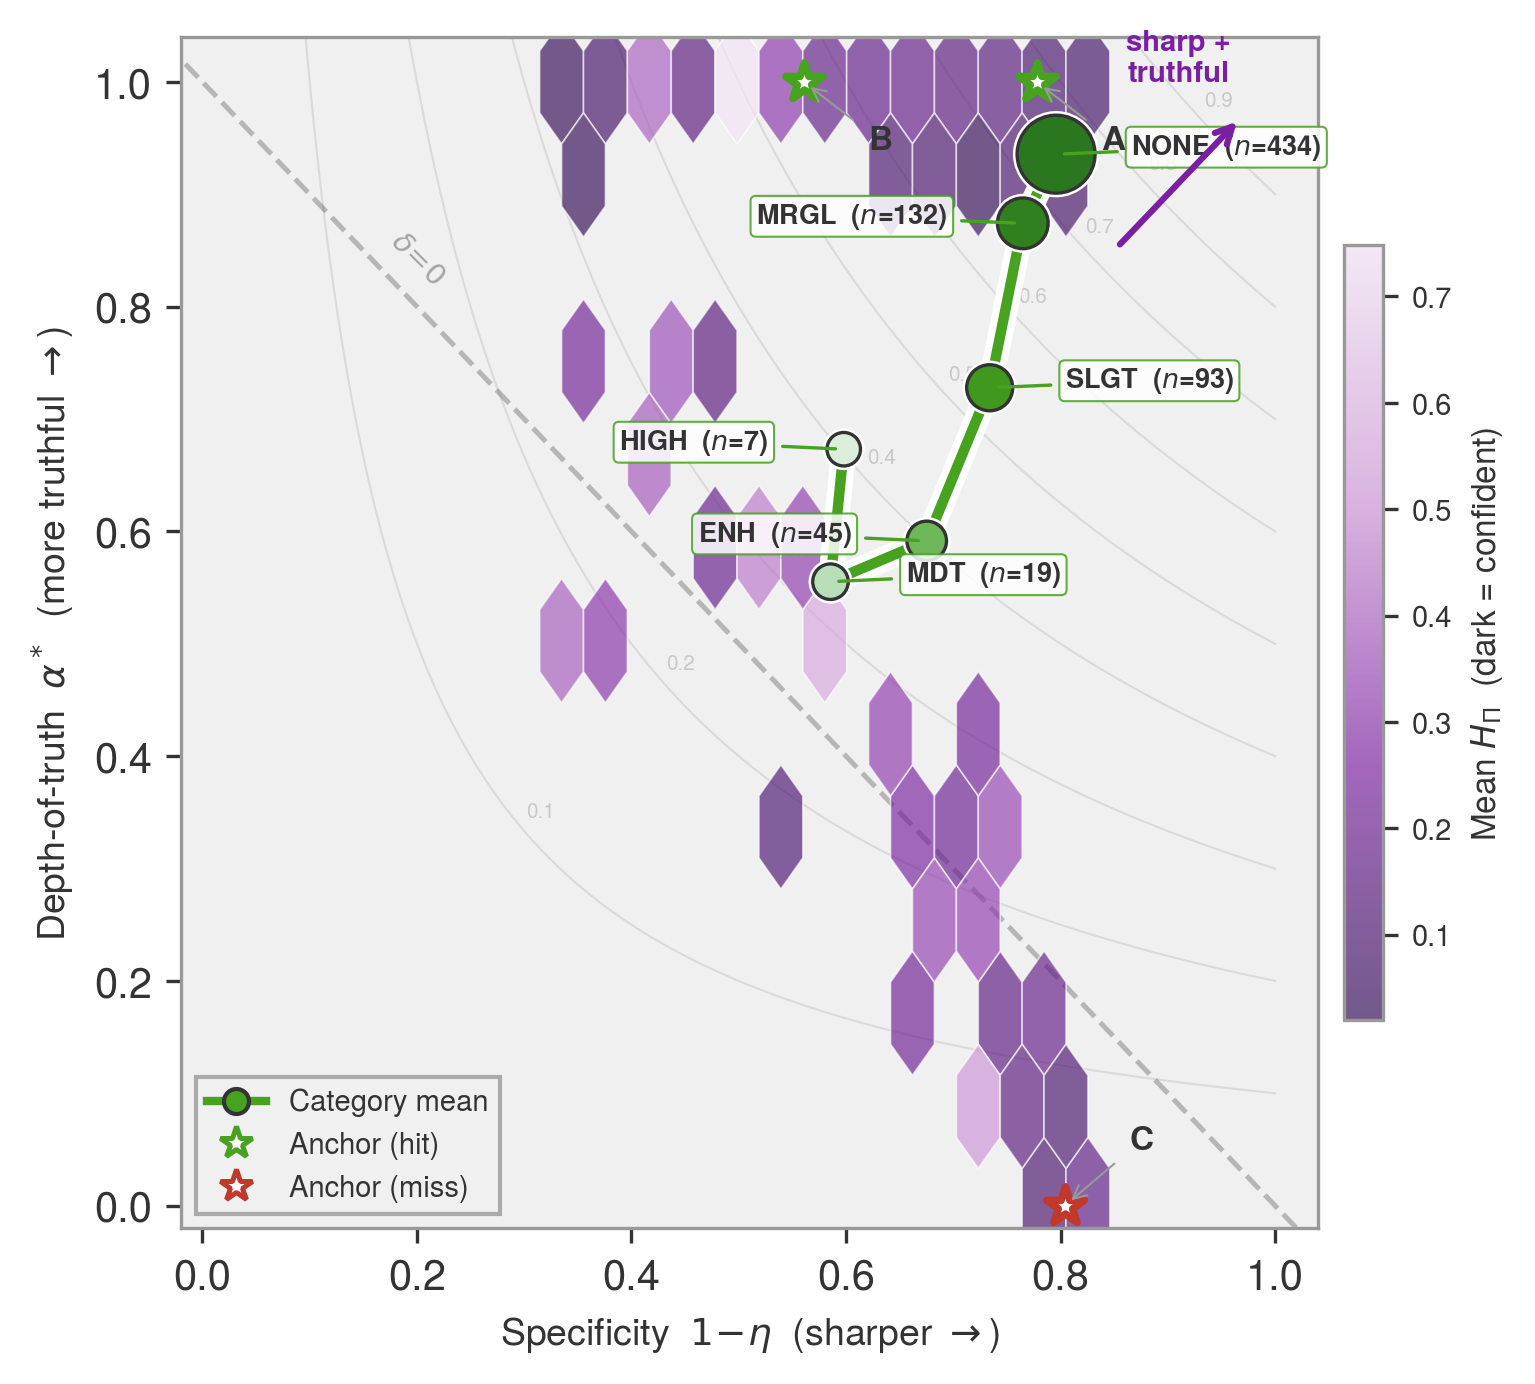
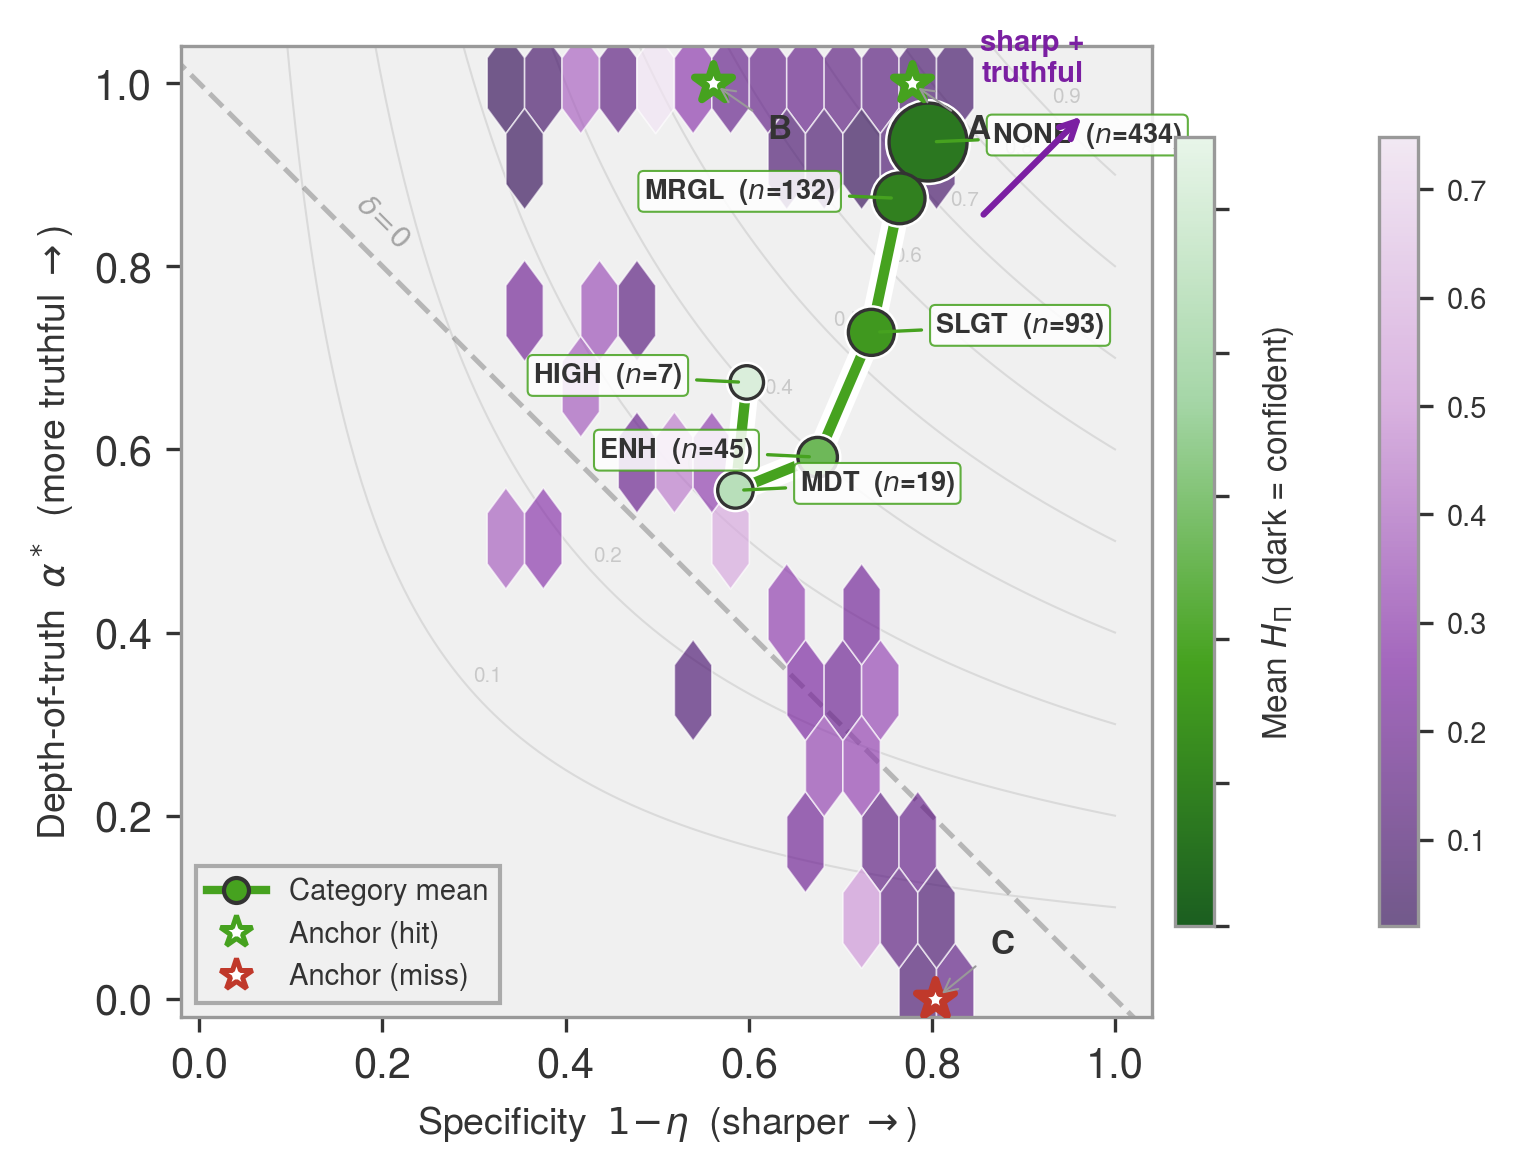
Regular hexagons, dual colorbar, move figure earlier
Match V4b layout pattern (set_aspect + tight_layout) for truly
regular hexagons. Add parallel green colorbar strip alongside
purple to show both H_Pi encodings on same scale. Move figure
environment earlier in source so LaTeX separates figs 4 and 5.

diff --git a/sections/05-native-verification.tex b/sections/05-native-verification.tex
@@ -175,6 +175,24 @@ Aggregates $\overline{\alpha^*}$, $\overline{\eta}$,
 $\overline{\delta}$, $\overline{\ign}$, $\overline{\Nc^*}$ are reported
 with bootstrap confidence intervals.
 
+\begin{figure}[t]
+\centering
+\includegraphics[width=\columnwidth]{perf_hexbin_trajectory.png}
+\caption{Possibilistic performance diagram for a two-year synthetic
+    reforecast.
+    \textbf{Hex bins:} colour is mean $\ign$ (dark purple = confident).
+    \textbf{Contours:} joint skill $S = \alpha^* \times (1 - \eta)$.
+    \textbf{Dashed diagonal:} $\delta = 0$ break-even.
+    \textbf{Green line:} category-conditional means from \spc{NONE}
+    (easy, upper right) to \spc{HIGH} (rare, lower left); dot
+    size $\propto$ sample count; shade encodes $\ign$ (dark green
+    = confident), paralleling the purple hex bins.
+    \textbf{Stars:} worked scenarios from
+    Section~\ref{sec:worked_examples} (green edge = hit, red = miss).
+    The upper-right corner is the perfect-forecast region.}
+\label{fig:performance_diagram}
+\end{figure}
+
 Figure~\ref{fig:performance_diagram} provides a diagnostic view of the
 five scorecard metrics, inspired by \citet{Roebber2009-rv}.  Hexagonal
 bins aggregate forecast--observation pairs by specificity $1 - \eta$
@@ -200,23 +218,6 @@ $\delta = 0$ diagonal, the forecast discriminated; below it, the truth
 received less support than the categorical average.  The trajectory's
 slope reveals where skill degrades fastest---a steep drop between
 adjacent categories signals the system's breaking point.
-
-\begin{figure}[t]
-\centering
-\includegraphics[width=\columnwidth]{perf_hexbin_trajectory.png}
-\caption{Possibilistic performance diagram for a two-year synthetic
-    reforecast.
-    \textbf{Hex bins:} colour is mean $\ign$ (dark = confident).
-    \textbf{Contours:} joint skill $S = \alpha^* \times (1 - \eta)$.
-    \textbf{Dashed diagonal:} $\delta = 0$ break-even.
-    \textbf{Green line:} category-conditional means from \spc{NONE}
-    (easy, upper right) to \spc{HIGH} (rare, lower left); dot
-    size $\propto$ sample count.
-    \textbf{Stars:} worked scenarios from
-    Section~\ref{sec:worked_examples} (green edge = hit, red = miss).
-    The upper-right corner is the perfect-forecast region.}
-\label{fig:performance_diagram}
-\end{figure}
 
 Both axes of Figure~\ref{fig:performance_diagram} operate on the
 normalised shape $\pi'$: two forecasts with identical shapes but

diff --git a/scripts/fig_perf_iterate.py b/scripts/fig_perf_iterate.py
@@ -245,13 +245,12 @@ def draw_traj_commit(ax, means, color=GREEN, fontsize=6.5):
 
 def v3b(data, ap, spec, anchors):
     """V3b: green trajectory + enhanced hexbin (all days)."""
-    fig, ax = plt.subplots(figsize=(5.0, 4.5), constrained_layout=True)
+    fig, ax = plt.subplots(figsize=(5.5, 4.5))
     cm = hpi_cmap()
     nm = Normalize(0.0, 0.55)
     gcm = hpi_green_cmap()
     means = cat_means(data, spec)
 
-    # Set equal ranges BEFORE hexbin so hex grid is regular
     ax.set_xlim(-0.02, 1.04)
     ax.set_ylim(-0.02, 1.04)
 
@@ -267,9 +266,15 @@ def v3b(data, ap, spec, anchors):
     draw_anchors_spec_alpha(ax, anchors)
     draw_compass(ax, 0.97, 0.97, "sharp +\ntruthful")
 
-    cb = fig.colorbar(hb, ax=ax, shrink=0.65, pad=0.02)
-    cb.set_label(r"Mean $H_\Pi$  (dark = confident)", fontsize=8)
-    cb.ax.tick_params(labelsize=7)
+    # Dual colorbar: purple (hexbin) + green (trajectory), same H_Pi scale
+    cb_p = fig.colorbar(hb, ax=ax, shrink=0.65, pad=0.02)
+    cb_p.ax.tick_params(labelsize=7)
+    cb_p.set_label("")
+    sm_g = plt.cm.ScalarMappable(cmap=gcm, norm=nm)
+    sm_g.set_array([])
+    cb_g = fig.colorbar(sm_g, ax=ax, shrink=0.65, pad=0.02)
+    cb_g.set_label(r"Mean $H_\Pi$  (dark = confident)", fontsize=8)
+    cb_g.ax.set_yticklabels([])
 
     h_t = mlines.Line2D([], [], marker="o", ls="-", color=GREEN, lw=2,
                         mfc=GREEN, mec=DARK_GREY, ms=6,
@@ -283,10 +288,12 @@ def v3b(data, ap, spec, anchors):
     ax.legend(handles=[h_t, h_v, h_m], loc="lower left", fontsize=7,
               frameon=True, fancybox=False, edgecolor=MID_GREY)
 
+    ax.set_aspect('equal', adjustable='box')
     ax.set_xlabel(r"Specificity  $1\!-\!\eta$  (sharper $\rightarrow$)",
                   fontsize=9)
     ax.set_ylabel(r"Depth-of-truth  $\alpha^*$  (more truthful $\rightarrow$)",
                   fontsize=9)
+    fig.tight_layout()
     save_fig(fig, "perf_hexbin_trajectory")
 
 
